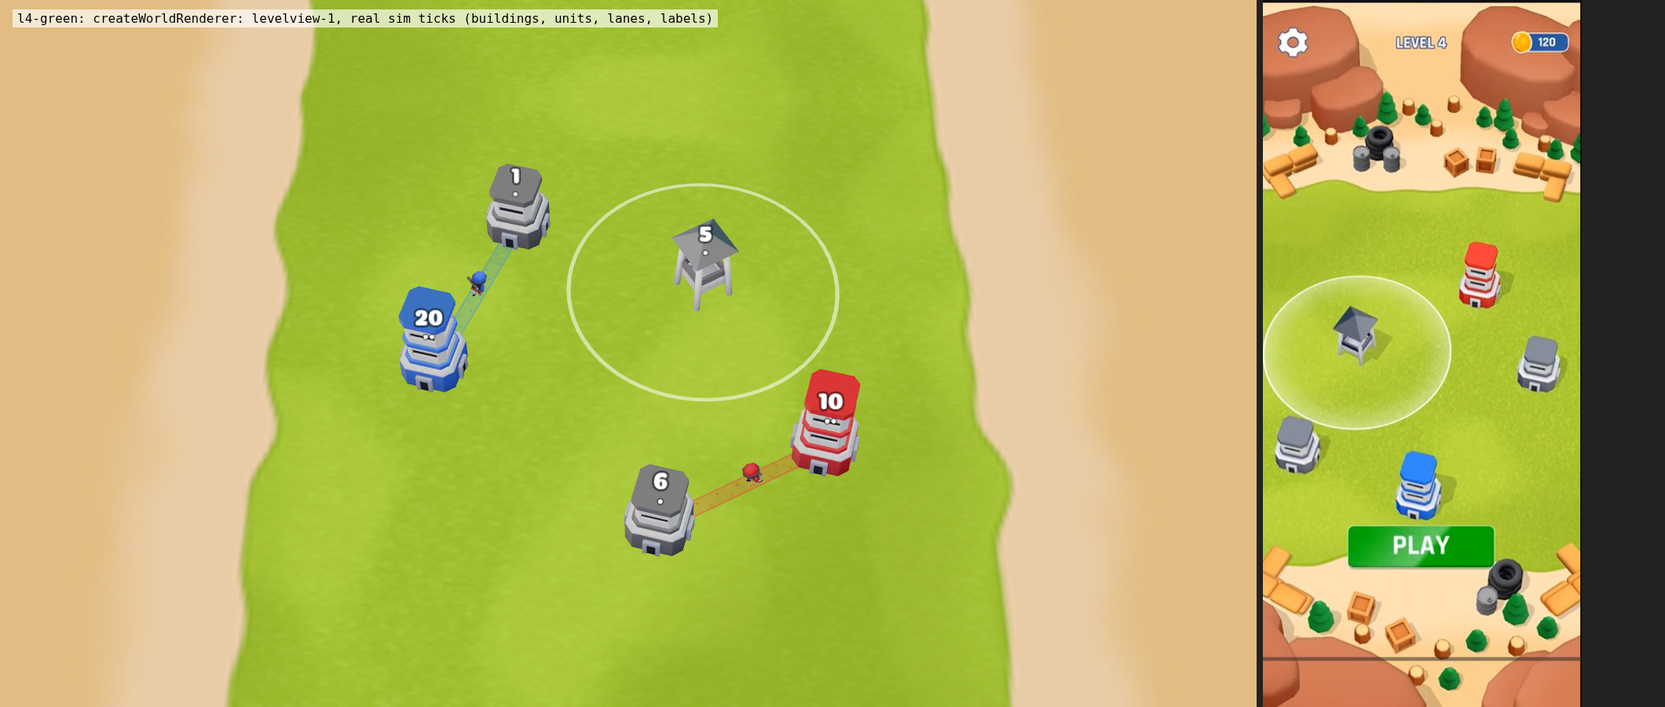
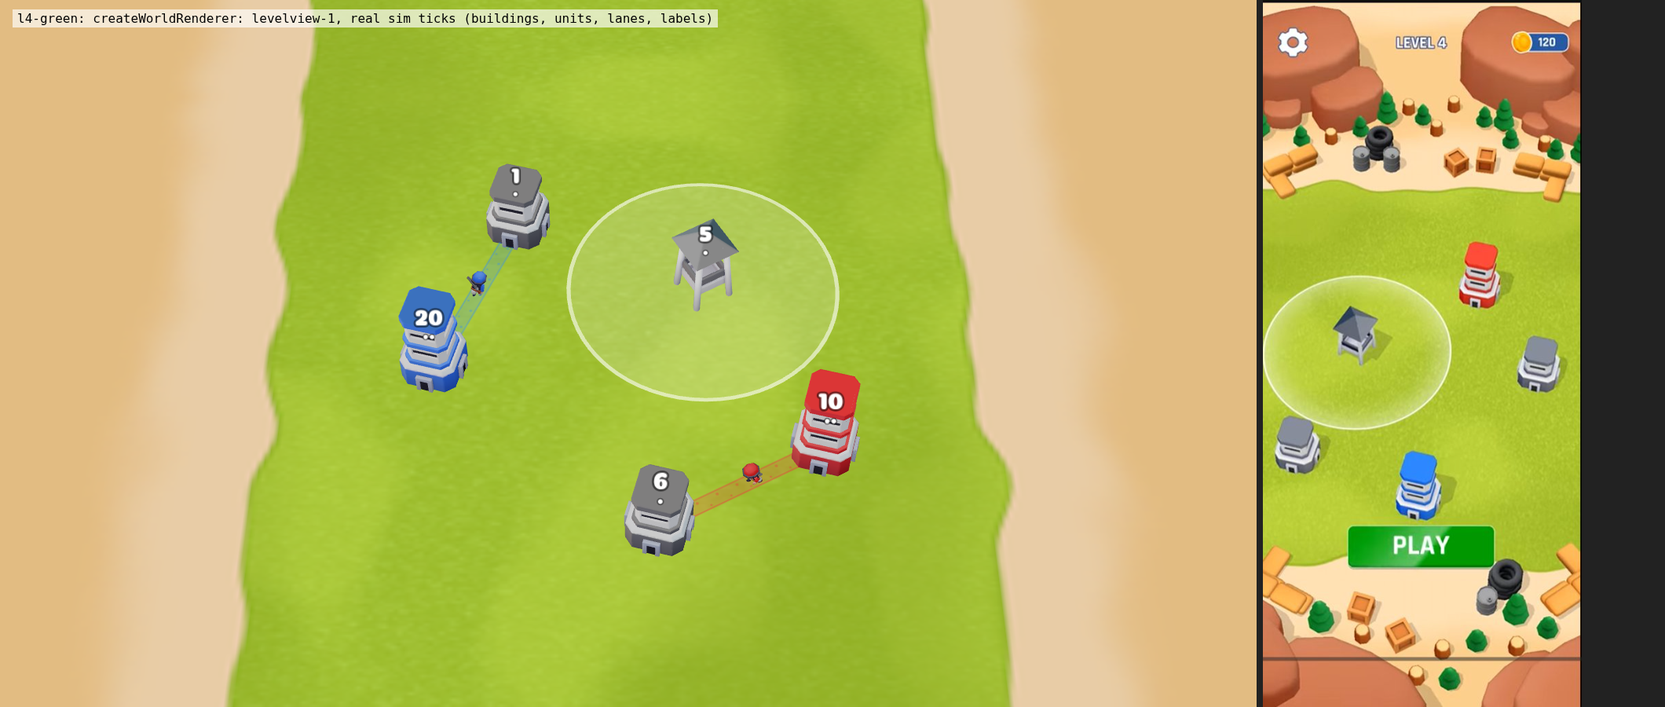
07-art-pipeline: Task 12 — unit LOD + range disc (tri budget)
Soldier LOD1 GLB (meshopt, 1036->294 tris), optional manifest model.lod, global LOD swap in unit renderer, translucent tower range disc. Perf scene 678k -> 233k tris, 52 unit draws.

Changed region(s): [[0.3425, 0.2489, 0.5292, 0.56]]

diff --git a/apps/web/src/render/unit-renderer.ts b/apps/web/src/render/unit-renderer.ts
@@ -8,6 +8,9 @@ import { bakeClip, bakeRest, collectParts, loopFrame, mul4, oneShotFrame, phaseO
 export const GHOST_CAP = 64;
 /** Sim world coordinates are milli-units; scene units are metres. */
 export const MILLI_TO_WORLD = 0.001;
+/** Global LOD (manifest `model.lod`): swap every part to the simplified geometry above LOD_ON alive troops of this visual, back at <= LOD_OFF. Geometry swap only: draw calls are unchanged. */
+export const LOD_ON = 200;
+export const LOD_OFF = 150;
 
 /** Per-frame input (built by SP08 from `sim.readTroops`): never a snapshot. */
 export interface UnitFrame {
@@ -31,7 +34,7 @@ export interface UnitRenderer extends Renderer {
   readonly drawCalls: number;
   /** Max possible draw calls = parts x teams. */
   readonly maxDrawCalls: number;
-  readonly stats: { meshesCreated: number; capacity: number; ghosts: number };
+  readonly stats: { meshesCreated: number; capacity: number; ghosts: number; /** 1 while the simplified geometry is active. */ lod: 0 | 1 };
 }
 
 export interface Pose { x: number; z: number; yaw: number }
@@ -70,14 +73,21 @@ export async function createUnitRenderer(ctx: RendererContext, opts: UnitRendere
   const textures = visual.team.textures, teamKeys = Object.keys(textures), T = teamKeys.length, scale = visual.scale ?? 1;
   const mats: Material[] = teamKeys.map(t => ctx.materials.teamMaterial(ctx.visualId, t, textures));
   const geoms: BufferGeometry[] = meshes.map(m => m.geometry);
+  let lodGeoms: BufferGeometry[] | null = null;
+  if (visual.model.lod) {
+    const lod = collectParts((await ctx.models.file(parseModelRef(visual.model.lod).file)).scene).meshes;
+    if (lod.length !== P || lod.some((m, p) => m.name !== meshes[p]!.name)) throw new Error(`LOD ${visual.model.lod} part nodes differ from ${visual.model.parts}`);
+    lodGeoms = lod.map(m => m.geometry);
+  }
+  let useLod = false;
   const root = new Group(); root.name = `units:${ctx.visualId}`;
-  const stats = { meshesCreated: 0, capacity: 0, ghosts: 0 };
+  const stats: UnitRenderer['stats'] = { meshesCreated: 0, capacity: 0, ghosts: 0, lod: 0 };
   let grid: InstancedMesh[][] = []; // [part][team]
 
   function allocate(cap: number): void {
     for (const row of grid) for (const m of row) { root.remove(m); m.dispose(); }
     grid = geoms.map((g, p) => mats.map((mat, t) => {
-      const m = new InstancedMesh(g, mat, cap); stats.meshesCreated++;
+      const m = new InstancedMesh(useLod ? lodGeoms![p]! : g, mat, cap); stats.meshesCreated++;
       m.instanceMatrix.setUsage(DynamicDrawUsage); m.frustumCulled = false; m.count = 0; m.visible = false; m.name = `${meshes[p]!.name}:${teamKeys[t]}`;
       root.add(m); return m;
     }));
@@ -139,6 +149,10 @@ export async function createUnitRenderer(ctx: RendererContext, opts: UnitRendere
         ensure(counts[team]! + 1 + GHOST_CAP);
         troopPose(view, troops, i, alpha, worldScale, pose);
         put(team, run, loopFrame(run, time, phaseOf(troops.channel[i]!, troops.seq[i]!)), pose.x, pose.z, pose.yaw);
+      }
+      if (lodGeoms) {
+        const alive = counts.reduce((s, c) => s + c, 0), want = useLod ? alive > LOD_OFF : alive > LOD_ON;
+        if (want !== useLod) { useLod = want; stats.lod = want ? 1 : 0; for (let p = 0; p < P; p++) for (let t = 0; t < T; t++) grid[p]![t]!.geometry = useLod ? lodGeoms[p]! : geoms[p]!; }
       }
       let live = 0;
       for (let k = 0; k < GHOST_CAP; k++) {

diff --git a/tools/src/assets-tw/units.ts b/tools/src/assets-tw/units.ts
@@ -2,8 +2,31 @@
 // four team textures each (original 256px PNG bytes, no recompress).
 import type { Node } from '@gltf-transform/core';
 import { SCENES_DIR, meshIndex, type Extract } from './extract.js';
+import { MeshoptSimplifier } from 'meshoptimizer';
 import { ModelBuilder, buildTree, pngSize, type PartRec, type Tree } from './glb.js';
+import type { RawGeometry } from './obj.js';
 import type { Output } from './output.js';
+
+/**
+ * Unit LOD1 (PRD 07 risk row "720 troops x 9 parts"): per-part meshopt simplification, same node tree as the full model (so
+ * the baked animation applies unchanged), UVs kept (weighted attribute simplify). Fixed ratio/error => deterministic bytes.
+ * Only families listed in LOD_FAMILIES get one (tank is 408 tris and few; soldier 1,036 -> ~294).
+ */
+export const LOD_FAMILIES = ['soldier'] as const;
+export const LOD_RATIO = 0.25;
+export const LOD_ERROR = 0.15;
+const LOD_MIN_INDICES = 12;
+
+/** Simplify one part mesh; vertices are compacted so unused ones are dropped. Attribute order/values of kept vertices unchanged. */
+export function simplifyGeometry(g: RawGeometry, ratio = LOD_RATIO, error = LOD_ERROR): RawGeometry {
+  const target = Math.max(LOD_MIN_INDICES, Math.floor((g.indices.length * ratio) / 3) * 3);
+  const uv = g.uvs ?? new Float32Array(g.vertexCount * 2);
+  const [idx] = MeshoptSimplifier.simplifyWithAttributes(g.indices, g.positions, 3, uv, 2, [0.5, 0.5], null, target, error, []);
+  const remap = new Map<number, number>(), keep: number[] = [];
+  const indices = Uint32Array.from(idx, (v) => { let k = remap.get(v); if (k === undefined) { k = keep.length; remap.set(v, k); keep.push(v); } return k; });
+  const pick = (src: Float32Array, w: number): Float32Array => { const o = new Float32Array(keep.length * w); keep.forEach((v, i) => { for (let c = 0; c < w; c++) o[i * w + c] = src[v * w + c]!; }); return o; };
+  return { positions: pick(g.positions, 3), normals: g.normals ? pick(g.normals, 3) : null, uvs: g.uvs ? pick(g.uvs, 2) : null, indices, vertexCount: keep.length, triangleCount: indices.length / 3 };
+}
 
 export const UNIT_TEAMS = ['blue', 'green', 'red', 'yellow'] as const;
 const COLOUR: Record<(typeof UNIT_TEAMS)[number], string> = { blue: 'Blue', green: 'Green', red: 'Red', yellow: 'Yellow' };
@@ -85,6 +108,13 @@ export async function unitsJob(ex: Extract): Promise<Output[]> {
     if (clips) addAnimations(b, tree, recs, clips, anims);
     tree.root.setExtras({ family: spec.family, teams: [...UNIT_TEAMS], source: skin.name });
     outs.push({ path: `models/tw/${spec.family}.glb`, bytes: await b.write(tree.root, spec.family) });
+    if ((LOD_FAMILIES as readonly string[]).includes(spec.family)) {
+      await MeshoptSimplifier.ready;
+      const lb = new ModelBuilder(ex, objs, 'team', simplifyGeometry);
+      const lt = buildTree(lb, recs, spec.family);
+      lt.root.setExtras({ family: spec.family, teams: [...UNIT_TEAMS], source: skin.name, lod: 1 });
+      outs.push({ path: `models/tw/${spec.family}-lod1.glb`, bytes: await lb.write(lt.root, spec.family) });
+    }
     for (const team of UNIT_TEAMS) {
       const tex = skin.materials[COLOUR[team]]?.tex._MainTex;
       if (!tex) throw new Error(`${spec.skin}: no ${COLOUR[team]} texture`);

diff --git a/apps/web/src/render/building.ts b/apps/web/src/render/building.ts
@@ -1,5 +1,5 @@
 import {
-  DoubleSide, Group, Mesh, MeshBasicMaterial, RingGeometry, Sprite, SpriteMaterial, Vector3,
+  DoubleSide, Group, Mesh, MeshBasicMaterial, CircleGeometry, RingGeometry, Sprite, SpriteMaterial, Vector3,
   type Material, type Object3D,
 } from 'three';
 import type { SimEvent } from '@node-arena/defs';
@@ -76,6 +76,9 @@ class BuildingRendererImpl implements BuildingRenderer {
   private stageSets: Set<string>[]; private allStageNodes: string[];
   private shots: Shot[] = []; private selected: number | null = null; private showRanges = true;
   private ringGeo = new RingGeometry(0.97, 1, 64).rotateX(-Math.PI / 2);
+  /** Translucent fill under the edge ring (TW refs: filled disc + brighter edge). Team-neutral. */
+  private discGeo = new CircleGeometry(1, 64).rotateX(-Math.PI / 2);
+  private discMats = { range: new MeshBasicMaterial({ color: 0xffffff, transparent: true, opacity: 0.18, depthWrite: false, side: DoubleSide }), sel: new MeshBasicMaterial({ color: 0xffe14d, transparent: true, opacity: 0.2, depthWrite: false, side: DoubleSide }) };
   private ringMats = { range: new MeshBasicMaterial({ color: 0xffffff, transparent: true, opacity: 0.55, depthWrite: false, side: DoubleSide }), sel: new MeshBasicMaterial({ color: 0xffe14d, transparent: true, opacity: 0.9, depthWrite: false, side: DoubleSide }) };
   private spriteMats: SpriteMaterial[] = []; private lastPick: Mesh[] | null = null;
 
@@ -169,8 +172,9 @@ class BuildingRendererImpl implements BuildingRenderer {
     if (!want) { if (i.ring) i.ring.visible = false; return; }
     const r = (isTower && sim ? sim.towerRadiusMilli(view, i.init.index) : i.init.radius * 1.25) / MILLI;
     if (r <= 0) { if (i.ring) i.ring.visible = false; return; }
-    if (!i.ring) { i.ring = new Mesh(this.ringGeo, this.ringMats.range); i.ring.position.y = 0.02; i.ring.renderOrder = 2; i.group.add(i.ring); }
+    if (!i.ring) { i.ring = new Mesh(this.ringGeo, this.ringMats.range); i.ring.position.y = 0.02; i.ring.renderOrder = 2; const disc = new Mesh(this.discGeo, this.discMats.range); disc.name = 'range-disc'; disc.position.y = -0.005; disc.renderOrder = 1; i.ring.add(disc); i.group.add(i.ring); }
     i.ring.material = sel ? this.ringMats.sel : this.ringMats.range;
+    (i.ring.getObjectByName('range-disc') as Mesh).material = sel ? this.discMats.sel : this.discMats.range;
     i.ring.scale.set(r, 1, r); i.ring.visible = true; i.ringRadius = r;
   }
 
@@ -208,6 +212,6 @@ class BuildingRendererImpl implements BuildingRenderer {
   }
 
   dispose(): void {
-    this.clearInstances(); this.ringGeo.dispose(); this.ringMats.range.dispose(); this.ringMats.sel.dispose(); this.deps.painter.dispose();
+    this.clearInstances(); this.ringGeo.dispose(); this.discGeo.dispose(); this.discMats.range.dispose(); this.discMats.sel.dispose(); this.ringMats.range.dispose(); this.ringMats.sel.dispose(); this.deps.painter.dispose();
   }
 }

diff --git a/tools/test/assets-tw.test.ts b/tools/test/assets-tw.test.ts
@@ -143,6 +143,16 @@ for (const [family, protoFile] of [['soldier', 'glb_proto/1_MilitaryDefaultWarri
   });
 }
 
+test('soldier LOD1: same part nodes + UV/team texture inputs, 150..450 tris, no clips, no tank LOD', { skip: needExtract }, async () => {
+  const r = await imported(), full = await read(r, 'models/tw/soldier.glb'), lod = await read(r, 'models/tw/soldier-lod1.glb');
+  const names = (d: Document) => d.getRoot().listNodes().filter((n) => n.getMesh()).map((n) => n.getName());
+  assert.deepEqual(names(lod), names(full));
+  const tris = lod.getRoot().listMeshes().reduce((s, m) => s + m.listPrimitives().reduce((q, p) => q + p.getIndices()!.getCount() / 3, 0), 0);
+  assert.ok(tris >= 150 && tris <= 450, `lod tris ${tris}`);
+  for (const m of lod.getRoot().listMeshes()) for (const p of m.listPrimitives()) assert.ok(p.getAttribute('TEXCOORD_0') && p.getAttribute('NORMAL'));
+  assert.equal(lod.getRoot().listAnimations().length, 0);
+  assert.equal(r.files.has('models/tw/tank-lod1.glb'), false);
+});
 test('oracle: soldier Run clip equals the prototype Run (RAW values), Death keeps only decoded channels', { skip: needExtract }, async () => {
   const mine = await read(await imported(), 'models/tw/soldier.glb'), proto = await oracle('glb_proto/1_MilitaryDefaultWarriorSkinData.glb');
   const clip = (d: Document, suffix: string) => d.getRoot().listAnimations().find((x) => x.getName().endsWith(suffix))!;
@@ -219,7 +229,7 @@ test('inventory: exactly the PRD R1 outputs; models embed no texture; textures a
   const r = await imported();
   const teams5 = ['blue', 'green', 'red', 'yellow', 'gray'], teams4 = ['blue', 'green', 'red', 'yellow'];
   const want = [
-    ...['soldier', 'tank', 'barracks', 'factory', 'tower', 'projectile'].map((f) => `models/tw/${f}.glb`),
+    ...['soldier', 'tank', 'barracks', 'factory', 'tower', 'projectile'].map((f) => `models/tw/${f}.glb`), 'models/tw/soldier-lod1.glb',
     ...teams4.flatMap((t) => [`textures/tw/soldier-${t}.png`, `textures/tw/tank-${t}.png`]),
     ...teams5.flatMap((t) => ['barracks', 'factory', 'tower', 'projectile'].map((f) => `textures/tw/${f}-${t}.png`)),
     ...['green', 'snow'].flatMap((t) => [`models/tw/ground-${t}.glb`, `models/tw/obstacle-${t}.glb`, `textures/tw/ground-${t}.png`, `textures/tw/obstacle-${t}.png`]),

diff --git a/apps/web/test/sp07/units.test.ts b/apps/web/test/sp07/units.test.ts
@@ -108,6 +108,25 @@ describe('unit renderer (real soldier/tank GLB)', () => {
     expect(draws).toBeLessThanOrEqual(60); expect(rs.maxDrawCalls + rt.maxDrawCalls).toBeLessThanOrEqual(60);
     expect(rs.root.children.reduce((s, c) => s + ((c as import('three').InstancedMesh).count), 0) / 9).toBeGreaterThan(500);
   });
+  it('global LOD: swaps to the simplified part geometry above the troop threshold, with hysteresis, no extra draws', async () => {
+    const { LOD_ON, LOD_OFF } = await import('../../src/render/unit-renderer.js');
+    const r = await createUnitRenderer(ctxFor('unit.soldier')), view = mkView(), buf = createTroopBuffer(800);
+    const tris = () => r.root.children.filter((_, i) => i % 4 === 0).reduce((s, c) => { const g = (c as import('three').InstancedMesh).geometry; return s + (g.index?.count ?? 0) / 3; }, 0);
+    const f: UnitFrame = { view, troops: buf, n: 0, alpha: 0 };
+    const run = (n: number) => { buf.owner.fill(0); buf.kind.fill(0); fill(buf, n); for (let i = 0; i < n; i++) { buf.owner[i] = i % 4; buf.kind[i] = 0; } f.n = n; r.update(f, [], 16); };
+    run(LOD_OFF - 1); expect(tris()).toBe(1036); expect(r.stats.lod).toBe(0);
+    run(LOD_ON + 1); expect(r.stats.lod).toBe(1); expect(tris()).toBeLessThan(400); expect(tris()).toBeGreaterThan(150);
+    expect(r.drawCalls).toBeLessThanOrEqual(r.maxDrawCalls);
+    run(LOD_OFF + 1); expect(r.stats.lod).toBe(1); // hysteresis band keeps LOD
+    run(LOD_OFF); expect(r.stats.lod).toBe(0); expect(tris()).toBe(1036);
+    // rebuilt (grown) meshes pick up the active LOD geometry
+    run(LOD_ON + 1); r.setCapacity(40, 100); run(LOD_ON + 1); expect(tris()).toBeLessThan(400);
+  });
+  it('tank has no LOD', async () => {
+    const r = await createUnitRenderer(ctxFor('unit.tank')), buf = createTroopBuffer(800); buf.kind.fill(1);
+    const f: UnitFrame = { view: mkView(), troops: buf, n: 600, alpha: 0 }; fill(buf, 600); buf.kind.fill(1); r.update(f, [], 16);
+    expect(r.stats.lod).toBe(0);
+  });
   it('capacity grows only when needed, never shrinks', async () => {
     const r = await createUnitRenderer(ctxFor('unit.soldier')), view = mkView(), buf = createTroopBuffer(400);
     const f: UnitFrame = { view, troops: buf, n: 4, alpha: 0 }; fill(buf, 4);

diff --git a/tools/src/assets-tw/glb.ts b/tools/src/assets-tw/glb.ts
@@ -2,7 +2,7 @@
 // SP08 owns the single mirror at worldRoot. Output is deterministic: no timestamps, stable insertion order.
 import { Document, NodeIO, type Buffer as GltfBuffer, type Material, type Mesh, type Node } from '@gltf-transform/core';
 import type { Extract } from './extract.js';
-import { parseObj } from './obj.js';
+import { parseObj, type RawGeometry } from './obj.js';
 
 export type Vec3 = [number, number, number];
 export type Vec4 = [number, number, number, number];
@@ -23,7 +23,8 @@ export class ModelBuilder {
   readonly buffer: GltfBuffer = this.doc.createBuffer();
   readonly material: Material;
   private readonly meshes = new Map<string, Mesh>();
-  constructor(private readonly ex: Extract, private readonly objs: Map<string, string>, materialName = 'team') {
+  /** `reduce` (optional) post-processes every parsed mesh, e.g. LOD simplification. */
+  constructor(private readonly ex: Extract, private readonly objs: Map<string, string>, materialName = 'team', private readonly reduce: (g: RawGeometry) => RawGeometry = (g) => g) {
     this.material = this.doc.createMaterial(materialName).setBaseColorFactor([1, 1, 1, 1]).setMetallicFactor(0).setRoughnessFactor(1);
   }
 
@@ -34,7 +35,7 @@ export class ModelBuilder {
     if (hit) return hit;
     const file = this.objs.get(key);
     if (!file) throw new Error(`mesh pid ${key} (${name}) has no OBJ in the extract`);
-    const g = parseObj(this.ex.text(file), file);
+    const g = this.reduce(parseObj(this.ex.text(file), file));
     const acc = (type: 'SCALAR' | 'VEC2' | 'VEC3', array: Float32Array | Uint16Array | Uint32Array) => this.doc.createAccessor().setType(type).setArray(array).setBuffer(this.buffer);
     const prim = this.doc.createPrimitive()
       .setAttribute('POSITION', acc('VEC3', g.positions))

diff --git a/tools/src/manifest-assets.ts b/tools/src/manifest-assets.ts
@@ -45,6 +45,7 @@ function references(m: ManifestV2): Array<{ path: string; from: string; texture?
   const refs: Array<{ path: string; from: string; texture?: boolean }> = [];
   for (const [id, v] of Object.entries(m.visuals)) {
     refs.push({ path: v.model.parts, from: `visual ${id} model.parts` });
+    if (v.model.lod) refs.push({ path: v.model.lod, from: `visual ${id} model.lod` });
     for (const [team, t] of Object.entries(v.team?.textures ?? {})) refs.push({ path: t, from: `visual ${id} texture ${team}`, texture: true });
   }
   for (const [id, t] of Object.entries(m.themes)) {
@@ -97,6 +98,15 @@ export async function checkManifestAssets(m: ManifestV2, assetsDir: string, lock
       const tris = baseTris + names.reduce((s, n) => s + (named(d, n) ? nodeTris(named(d, n)!) : 0), 0);
       if (tris > budget) errors.push(`visual ${id}${v.stages ? ` stage ${i}` : ''}: ${tris} tris > ${v.model.budget} budget ${budget}`);
     });
+    if (v.model.lod && present.has(v.model.lod)) {
+      const l = await doc(v.model.lod);
+      if (l) {
+        const names = (x: Document) => meshNodes(x).map((n) => n.getName()).join(',');
+        if (names(l) !== names(d)) errors.push(`visual ${id}: lod ${v.model.lod} part nodes differ from ${v.model.parts}`);
+        const lt = meshNodes(l).reduce((s, n) => s + own(n), 0), ft = meshNodes(d).reduce((s, n) => s + own(n), 0);
+        if (lt >= ft) errors.push(`visual ${id}: lod has ${lt} tris, not fewer than ${ft}`);
+      }
+    }
     if (v.anim?.mode === 'node-tracks') {
       const clips = d.getRoot().listAnimations().map((a) => a.getName());
       for (const c of Object.values(v.anim.clips)) if (!clips.includes(c)) errors.push(`visual ${id}: clip "${c}" not in ${v.model.parts} (has ${clips.join(', ') || 'none'})`);

diff --git a/apps/web/test/sp07/building.test.ts b/apps/web/test/sp07/building.test.ts
@@ -1,5 +1,5 @@
 import { describe, expect, it } from 'vitest';
-import { Group, Mesh, BoxGeometry, Object3D, Texture, MeshLambertMaterial } from 'three';
+import { Group, Mesh, BoxGeometry, Object3D, Texture, MeshLambertMaterial, MeshBasicMaterial } from 'three';
 import type { SimEvent } from '@node-arena/defs';
 import { createBuildingFactory, MILLI, PROJECTILE_MS, type BuildingRenderer, type BuildingInit } from '../../src/render/building.js';
 import { MaterialCache } from '../../src/render/materials.js';
@@ -97,6 +97,14 @@ describe('building renderer: labels, anchors, ring, shots', () => {
     r.update(frame(5, 0), [], 16);
     expect(r.labelRoot.children[0]!.position.z).toBeCloseTo(3);
     expect(r.labelRoot.children[0]!.position.x).toBeCloseTo(2);
+  });
+  it('range ring carries a translucent white fill disc (TW refs), team-neutral', async () => {
+    const { make } = setup('building.tower'); const r = await make(); r.setBuildings(inits);
+    r.update(frame(5, 0), [], 16, { towerRadiusMilli: () => 4500 });
+    const ring = r.root.getObjectByName('b0')!.children.find(c => c.scale.x === 4.5)!;
+    const disc = ring.getObjectByName('range-disc') as Mesh; expect(disc.isMesh).toBe(true);
+    const m = disc.material as MeshBasicMaterial; expect(m.transparent).toBe(true); expect(m.opacity).toBeGreaterThan(0.1); expect(m.opacity).toBeLessThan(0.3); expect(m.color.getHex()).toBe(0xffffff);
+    r.dispose();
   });
   it('tower range ring uses sim.towerRadiusMilli; shot spawns projectile with owner team and lands', async () => {
     const { make, proj } = setup('building.tower'); const r = await make(); r.setBuildings(inits);

diff --git a/packages/content/src/manifest.schema.ts b/packages/content/src/manifest.schema.ts
@@ -39,7 +39,8 @@ export const ManifestSchema = Type.Object({
   palettes: teamSet(color()),
   visuals: map(Type.Object({
     kind: literals(RENDER_KINDS),
-    model: Type.Object({ parts: path(), budget: literals(Object.keys(BUDGET_CLASSES) as Array<keyof typeof BUDGET_CLASSES>) }, closed),
+    /** `lod`: optional simplified sibling GLB with the same part nodes (unit renderer swaps geometry when many troops are alive). */
+    model: Type.Object({ parts: path(), budget: literals(Object.keys(BUDGET_CLASSES) as Array<keyof typeof BUDGET_CLASSES>), lod: Type.Optional(path()) }, closed),
     stages: Type.Optional(Type.Array(stage, { minItems: 1 })),
     team: Type.Optional(Type.Object({ mode: literals(TEAM_MODES), textures: textureSet() }, closed)),
     anim: Type.Optional(anim),

diff --git a/tools/src/assets-tw/manifest-fragment.ts b/tools/src/assets-tw/manifest-fragment.ts
@@ -90,7 +90,7 @@ export async function buildFragment(files: ReadonlyMap<string, Uint8Array>): Pro
     const doc = await glb(family), x = rootExtras(doc);
     const clips = doc.getRoot().listAnimations().map((a) => a.getName());
     visuals[`unit.${family}`] = {
-      kind: 'unit', model: { parts: `models/tw/${family}.glb`, budget: 'unit' },
+      kind: 'unit', model: { parts: `models/tw/${family}.glb`, budget: 'unit', ...(files.has(`models/tw/${family}-lod1.glb`) ? { lod: `models/tw/${family}-lod1.glb` } : {}) },
       team: { mode: 'textureSwap', textures: tex(family, x.teams ?? []) },
       anim: clips.includes('Run') && clips.includes('Death') ? { mode: 'node-tracks', clips: { run: 'Run', death: 'Death' } } : { mode: 'none' },
       scale: 1,

diff --git a/apps/web/src/manifest/resolve.ts b/apps/web/src/manifest/resolve.ts
@@ -35,6 +35,7 @@ export function assertManifestReferences(m: Manifest, registry: Pick<RendererReg
   for (const [key, v] of Object.entries(m.visuals)) {
     if (!registry.has(v.kind)) throw new ManifestError('key', key, `No renderer registered for kind ${v.kind}`);
     assertAssetPath(v.model.parts, true);
+    if (v.model.lod) assertAssetPath(v.model.lod, true);
     for (const t of Object.values(v.team?.textures ?? {})) if (t) assertAssetPath(t);
     if (v.fx && !Object.hasOwn(m.fx, v.fx)) throw new ManifestError('key', key, `Unresolved fx ${v.fx}`);
     if (v.sfx) assertAssetPath(v.sfx);

diff --git a/docs/agent_files/feat-tower-war-port-20261022-0321/07-art-pipeline/validation.md b/docs/agent_files/feat-tower-war-port-20261022-0321/07-art-pipeline/validation.md
@@ -150,12 +150,14 @@ Captures: `pnpm assets:capture --scene all --compare` (1600x900, SwiftShader) ->
 | Metric | Measured | Budget | |
 |---|---|---|---|
 | Unit draw calls (InstancedMesh) | 52 (soldier 9x4 + tank 4x4) | <= 60 | met |
-| Total draw calls (units + buildings + labels + lanes + ground + fx) | 181 | n/a | info |
-| Triangles (`renderer.info.render.triangles`) | **678,098** | <= 300,000 | **NOT MET** |
+| Total draw calls (units + buildings + labels + lanes + ground + fx) | 189 (was 181; +8 range discs) | n/a | info |
+| Triangles (`renderer.info.render.triangles`) | **233,410** (was 678,098 before unit LOD) | <= 300,000 | met |
 | CPU `world.update` (720 troops, bake+matrix) | 0.6 ms/frame | | fine |
 | Frame time, headless SwiftShader 1600x900 (software rasteriser, `readPixels` sync) | ~920 ms | 60 fps on iGPU | not measurable here (software); **owner check on a real iGPU** |
 | Total gzip of new SP07 assets (models/tw 95 KB + textures/tw 1,644 KB + fx 55 KB + Coiny font 69 KB, manifest ~10 KB) | ~1.87 MB | <= 3 MB | met |
-Tris breakdown: soldiers 600 x 1,036 = 622k + tanks 120 x 408 = 49k + buildings/ground/fx ~7k. The PRD's own numbers (1,036-tri soldier x 720) cannot satisfy 300k; the unit mesh itself is the budget. Recommended follow-up (PRD risk row "fallback ... merged LOD body for far units"): importer emits a ~250-tri simplified soldier (meshopt simplify per part) and `unit-renderer` switches to it when `n` troops > ~250 (or by camera distance); 720 x 250 = 180k fits. Not done here (new importer + renderer feature, outside Task 12).
+Tris breakdown before LOD: soldiers 600 x 1,036 = 622k + tanks 120 x 408 = 49k + buildings/ground/fx ~7k. After LOD: soldiers 600 x 294 = 176k + tanks 49k + rest ~8k = 233k.
+**LOD decision (fix-up):** importer emits `models/tw/soldier-lod1.glb` (same 9 part nodes/names, UVs + normals kept, no clips): per-part `MeshoptSimplifier.simplifyWithAttributes` (uv weights 0.5, target ratio 0.25, error 0.15), 1,036 -> 294 tris, deterministic (`assets:tw:check` OK). Manifest: additive optional `visuals.<id>.model.lod` (schema regenerated, schemaVersion unchanged); `check:manifest` verifies part-node parity and fewer tris. Renderer: GLOBAL switch, not per-unit distance (two LOD sets would double InstancedMeshes, 52 -> ~104 draws): when alive troops of the visual > 200 (`LOD_ON`) every part's InstancedMesh swaps `geometry` to the LOD one; back to full at <= 150 (`LOD_OFF`, hysteresis). Draw calls unchanged (unit 52). Tank kept full (408 tris, <=120 units, 49k). Worst case all-soldier 720 = 212k. Visual: perf.png soldiers still read as team-coloured TW soldiers at the SP08 camera; the unit-lineup (few units) stays on the full mesh.
+**Range ring:** now a translucent white fill disc (opacity 0.18, child `range-disc`) under the brighter edge ring (0.55), team-neutral, matching refs L04/L09/d-tower-firing (see l4-green.compare.png); selection ring gets a yellow 0.2 fill.
 
 ### Un-park confirmation
 - `scripts/ci.sh`: `step check:manifest pnpm check:manifest` runs live (line ~113); `check:manifest:SP07` is not in `PARKED`.
@@ -166,7 +168,7 @@ Tris breakdown: soldiers 600 x 1,036 = 622k + tanks 120 x 408 = 49k + buildings/
 |---|---|---|---|
 | 1 | R2 validation report; turntable under mirrored root; env-mapping outcome | met | this file (Tasks 1-4 sections), `ref/proto-check/` |
 | 2 | `assets:tw` + `:check` reproduce hashes; `check:manifest` passes, named budgets, CREDITS | met | `pnpm assets:tw:check` OK, `pnpm check:manifest` pass (run notes below) |
-| 3 | Perf: 720 troops + 20 buildings, 60 fps, <=60 unit draws, tris <=300k, recorded | partial | draws 52 met; tris 678k NOT MET; fps not measurable headless (owner iGPU check); numbers recorded |
+| 3 | Perf: 720 troops + 20 buildings, 60 fps, <=60 unit draws, tris <=300k, recorded | met except fps | draws 52 met; tris 233,410 met (unit LOD); fps not measurable headless (owner iGPU check); numbers recorded |
 | 4 | Manifest passes 02 schema (stage-indexed, no minLevel/levelVisuals, themes.sky, FX kinds); capacity = houses x aliveCap grow-only; interpolation clamped | met | `check:manifest`, sp07 tests (unit-renderer capacity/clamp tests) |
 | 5 | L4 + Snow side-by-side vs named refs in `ref/out/` with diffs noted | met | `l4-green.compare.png` (L04), `l21-snow.compare.png` (L21), `ref/out/NOTES.md` |
 | 6 | Team colour switch on capture: per-team texture for houses and tower; stage at 10/30 | met | `stage-ladder.png` (5/10/30 all teams, 3 families), `fx.png` capture; sp07 building tests |
